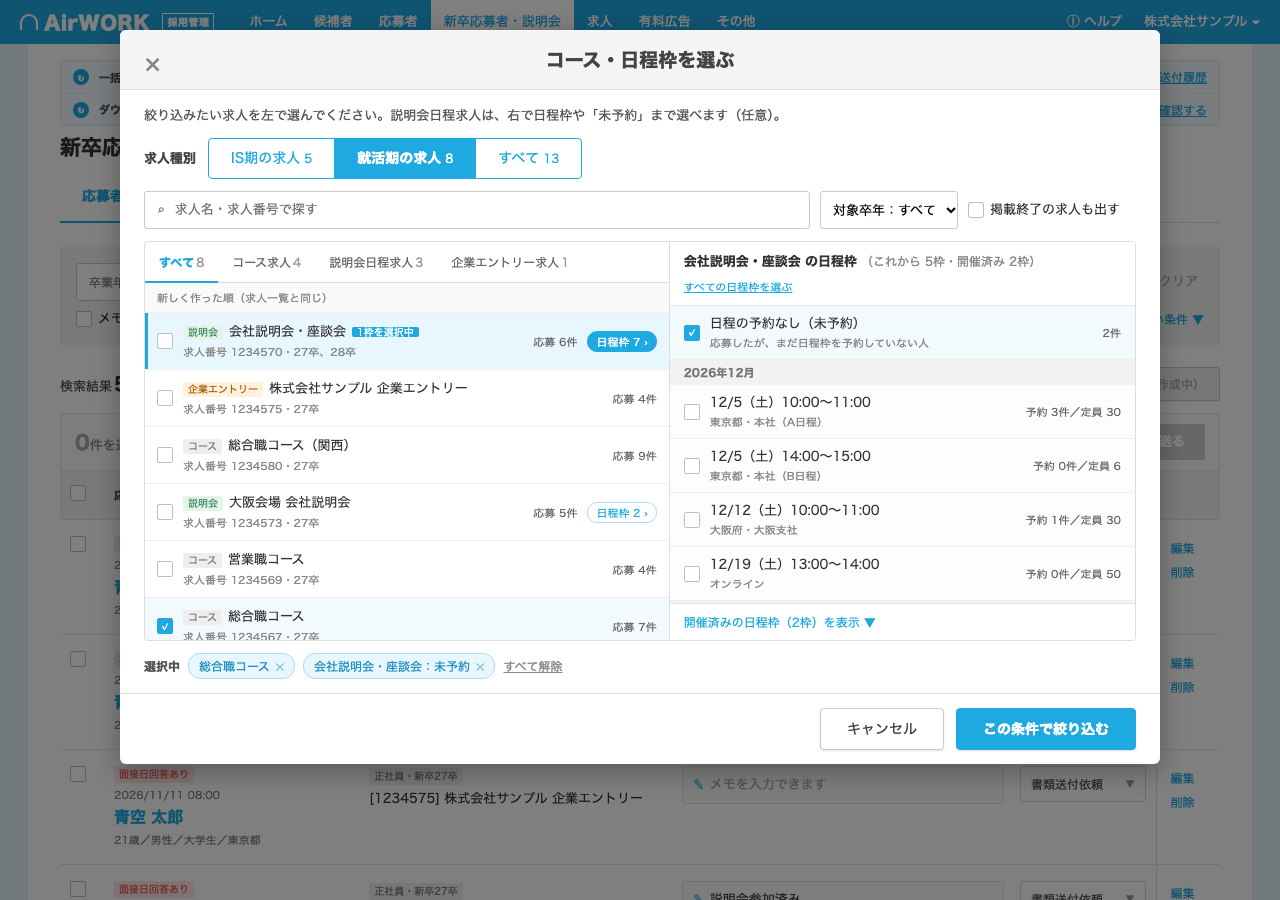
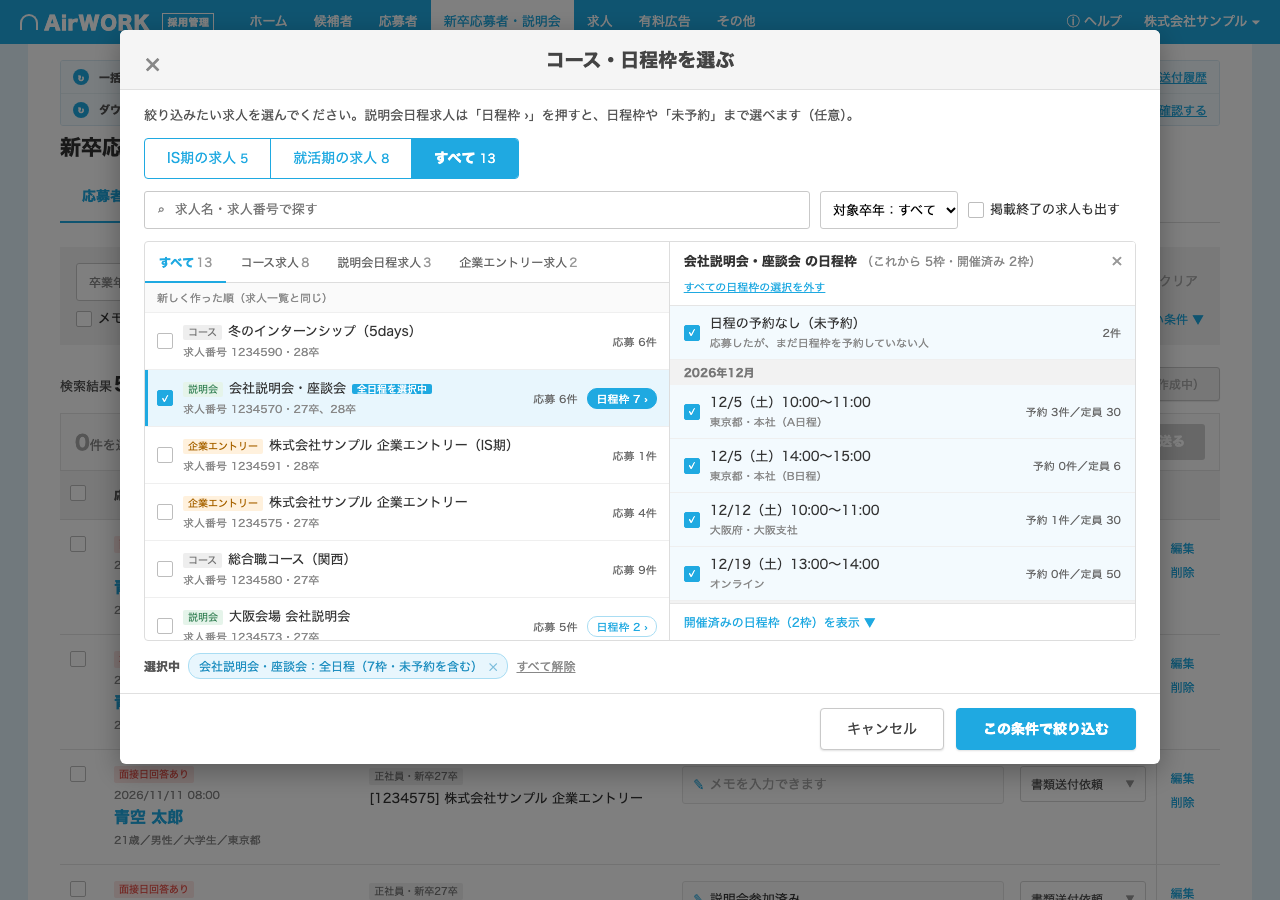
コース・日程枠モーダル：初期は「すべて」で1列、求人種別の見出しを外す、全日程の選択を分かるようにする

diff --git a/app.js b/app.js
@@ -144,6 +144,7 @@
   // ---------- 表示 ----------
   const ymd = (d) => `${d.getFullYear()}/${String(d.getMonth() + 1).padStart(2, '0')}/${String(d.getDate()).padStart(2, '0')}`;
   const dateText = (r) => (r.to && r.to.getTime() !== r.from.getTime() ? `${ymd(r.from)}〜${ymd(r.to)}` : ymd(r.from));
+  const jobLabel = (jid) => { const j = jobById(jid); return j.type === 'seminar' ? `${j.name}：全日程（${SLOTS[jid].length}枠・未予約を含む）` : j.name; };
   const slotLabel = (jid, sid) => (sid === 'none' ? '未予約' : SLOTS[jid].find((s) => s.id === sid).label);
   function courseSummary() {
     const nj = F.jobs.length;
@@ -173,7 +174,7 @@
   function renderApplied() {
     const tags = [];
     if (F.years.length) tags.push(['years', `卒業年度：${F.years.map((y) => y + '卒').join('、')}`]);
-    F.jobs.forEach((j) => tags.push([`job:${j}`, jobById(j).name]));
+    F.jobs.forEach((j) => tags.push([`job:${j}`, jobLabel(j)]));
     F.slots.forEach((s) => { const [jid, sid] = s.split(':'); tags.push([`slot:${s}`, `${jobById(jid).name}：${slotLabel(jid, sid)}`]); });
     if (F.kw) tags.push(['kw', `フリーワード：${F.kw}`]);
     if (F.memoEmpty) tags.push(['memoEmpty', 'メモが空の人だけ']);
@@ -454,9 +455,7 @@
       .sort((a, b) => b.created.localeCompare(a.created));
   }
   function openModal() {
-    Object.assign(M, { season: 'IS', tab: 'all', q: '', year: '', ended: false, focus: null, showPast: false, jobs: new Set(F.jobs), slots: new Set(F.slots) });
-    const firstSel = [...M.jobs, ...[...M.slots].map((s) => s.split(':')[0])].map(jobById)[0];
-    if (firstSel) M.season = firstSel.season;
+    Object.assign(M, { season: 'all', tab: 'all', q: '', year: '', ended: false, focus: null, showPast: false, jobs: new Set(F.jobs), slots: new Set(F.slots) });
     $('mdQ').value = ''; $('mdYear').value = '';
     $('ov').classList.add('open'); $('md').classList.add('open');
     renderModal();
@@ -466,7 +465,7 @@
     const isIS = M.season === 'IS';
     $('mdDesc').textContent = isIS
       ? '絞り込みたい求人を選んでください。IS期の求人は、コース求人と企業エントリー求人だけです（日程枠はありません）。'
-      : '絞り込みたい求人を左で選んでください。説明会日程求人は、右で日程枠や「未予約」まで選べます（任意）。';
+      : '絞り込みたい求人を選んでください。説明会日程求人は「日程枠 ›」を押すと、日程枠や「未予約」まで選べます（任意）。';
     const cnt = (s) => JOBS.filter((j) => (s === 'all' || j.season === s) && (M.ended || j.posted)).length;
     $('kseg').innerHTML = [['IS', 'IS期の求人'], ['main', '就活期の求人'], ['all', 'すべて']].map(([k, t]) => `<span class="${M.season === k ? 'on' : ''}" data-s="${k}">${t}<b>${cnt(k)}</b></span>`).join('');
     $('endedBox').classList.toggle('on', M.ended);
@@ -482,14 +481,15 @@
       const ns = [...M.slots].filter((s) => s.startsWith(j.id + ':')).length;
       return `<div class="it ${on ? 'sel1' : ''} ${M.focus === j.id ? 'focus' : ''} ${j.posted ? '' : 'ended'}" data-j="${j.id}">
         <span class="box ${on ? 'on' : ''}" data-check="${j.id}"></span>
-        <div class="main"><div class="t1"><span class="ty ${tc}">${tl}</span>${esc(j.name)}${ns ? `<span class="picked">${ns}枠を選択中</span>` : ''}</div>
+        <div class="main"><div class="t1"><span class="ty ${tc}">${tl}</span>${esc(j.name)}${on && j.type === 'seminar' ? '<span class="picked">全日程を選択中</span>' : ns ? `<span class="picked">${ns}枠を選択中</span>` : ''}</div>
         <div class="t2">求人番号 ${j.id}・${j.years.map((y) => y + '卒').join('、')}${j.posted ? '' : '・掲載終了'}</div></div>
         <div class="r">応募 ${appsOfJob(j.id).length}件</div>
         ${j.type === 'seminar' ? `<span class="slotlk">日程枠 ${SLOTS[j.id].length} ›</span>` : ''}</div>`;
     }).join('') : '<div class="rempty">条件に合う求人はありません。</div>';
-    $('panes').classList.toggle('full', isIS);
+    const showRight = !isIS && M.focus && jobById(M.focus).type === 'seminar';
+    $('panes').classList.toggle('full', !showRight);
     renderRight();
-    const chosen = [...M.jobs].map((j) => [`j:${j}`, jobById(j).name]).concat([...M.slots].map((s) => { const [jid, sid] = s.split(':'); return [`s:${s}`, `${jobById(jid).name}：${slotLabel(jid, sid)}`]; }));
+    const chosen = [...M.jobs].map((j) => [`j:${j}`, jobLabel(j)]).concat([...M.slots].map((s) => { const [jid, sid] = s.split(':'); return [`s:${s}`, `${jobById(jid).name}：${slotLabel(jid, sid)}`]; }));
     $('chosen').innerHTML = chosen.length ? `<span class="lb2">選択中</span>${chosen.map(([k, t]) => `<span class="tag">${esc(t)}<span class="x" data-c="${esc(k)}">✕</span></span>`).join('')}<span class="clr" data-c="all">すべて解除</span>` : '<span class="lb2" style="color:#AAA;font-weight:400">まだ選んでいません（選ばなければ、すべての求人が対象です）</span>';
   }
   function renderRight() {
@@ -513,7 +513,7 @@
       const n = apps.filter((a) => a.slot === s.id).length;
       html += row(s.id, s.label, s.venue, `予約 ${n}件／定員 ${s.cap}${n >= s.cap ? '<span class="fullb">満席</span>' : ''}`);
     });
-    r.innerHTML = `<div class="rh"><div class="t">${esc(j.name)} の日程枠<span>（これから ${up.length}枠・開催済み ${past.length}枠）</span></div><span class="all" data-allslots="1">${jobOn ? 'すべての日程枠の選択を外す' : 'すべての日程枠を選ぶ'}</span></div>
+    r.innerHTML = `<div class="rh"><span class="rx" data-closeright="1" title="日程枠を閉じる">×</span><div class="t">${esc(j.name)} の日程枠<span>（これから ${up.length}枠・開催済み ${past.length}枠）</span></div><span class="all" data-allslots="1">${jobOn ? 'すべての日程枠の選択を外す' : 'すべての日程枠を選ぶ'}</span></div>
       <div class="slots">${html}</div>${past.length ? `<div class="past" data-past="1">${M.showPast ? '開催済みの日程枠を隠す ▲' : `開催済みの日程枠（${past.length}枠）を表示 ▼`}</div>` : ''}`;
   }
   $('courseBtn').onclick = openModal;
@@ -539,6 +539,7 @@
   $('rightPane').onclick = (e) => {
     const s = e.target.closest('[data-slot]');
     if (s) { toggleSlot(s.dataset.slot); renderModal(); return; }
+    if (e.target.closest('[data-closeright]')) { M.focus = null; renderModal(); return; }
     if (e.target.closest('[data-past]')) { M.showPast = !M.showPast; renderRight(); return; }
     if (e.target.closest('[data-allslots]')) {
       const j = M.focus;
@@ -785,11 +786,13 @@
     renderMail();
   }
   if (location.hash === '#hist') openHist();
-  if (location.hash === '#modal' || location.hash === '#modal-is') {
+  if (location.hash === '#modal-init') openModal();
+  if (location.hash === '#modal-is') { openModal(); M.season = 'IS'; renderModal(); }
+  if (location.hash === '#modal') {
     openModal();
     if (location.hash === '#modal') { M.season = 'main'; M.focus = '1234570'; M.jobs.add('1234567'); M.slots.add('1234570:none'); renderModal(); }
   }
-  if (location.hash === '#modal-all') { openModal(); M.season = 'main'; toggleJob('1234570'); renderModal(); }
+  if (location.hash === '#modal-all') { openModal(); toggleJob('1234570'); renderModal(); }
   if (location.hash === '#open' || location.hash === '#cal') { detailOpen = true; renderSearch(); }
   if (location.hash === '#cal') {
     $('dateBtn').click();

diff --git a/style.css b/style.css
@@ -175,7 +175,9 @@ td.cs { padding-left: 0; }
 .it.focus .slotlk { background: #1FA9E1; color: #fff; border-color: #1FA9E1; }
 .picked { font-size: 10px; color: #fff; background: #1FA9E1; border-radius: 2px; padding: 0 5px; margin-left: 6px; }
 .rh { padding: 10px 14px 8px; border-bottom: 1px solid #E5E5E5; background: #fff; flex: none; }
-.rh .t { font-weight: 700; }
+.rh { position: relative; }
+.rh .rx { position: absolute; right: 12px; top: 8px; font-size: 18px; color: #999; cursor: pointer; line-height: 1; }
+.rh .t { font-weight: 700; padding-right: 24px; }
 .rh .t span { font-weight: 400; color: #888; font-size: 12px; margin-left: 4px; }
 .rh .all { font-size: 11px; color: #1FA9E1; text-decoration: underline; cursor: pointer; display: inline-block; margin-top: 6px; }
 .slots { flex: 1; overflow-y: auto; }

diff --git a/index.html b/index.html
@@ -66,7 +66,7 @@
     <div class="mh"><span class="x" id="mdClose">×</span><h2>コース・日程枠を選ぶ</h2></div>
     <div class="mb">
       <div class="desc" id="mdDesc"></div>
-      <div class="kind"><span class="klb">求人種別</span><div class="kseg" id="kseg"></div></div>
+      <div class="kind"><div class="kseg" id="kseg"></div></div>
       <div class="tools">
         <label class="srch"><span class="mg">⌕</span><input id="mdQ" placeholder="求人名・求人番号で探す"></label>
         <select class="msel" id="mdYear"><option value="">対象卒年：すべて</option><option value="27">対象卒年：27卒</option><option value="28">対象卒年：28卒</option></select>
